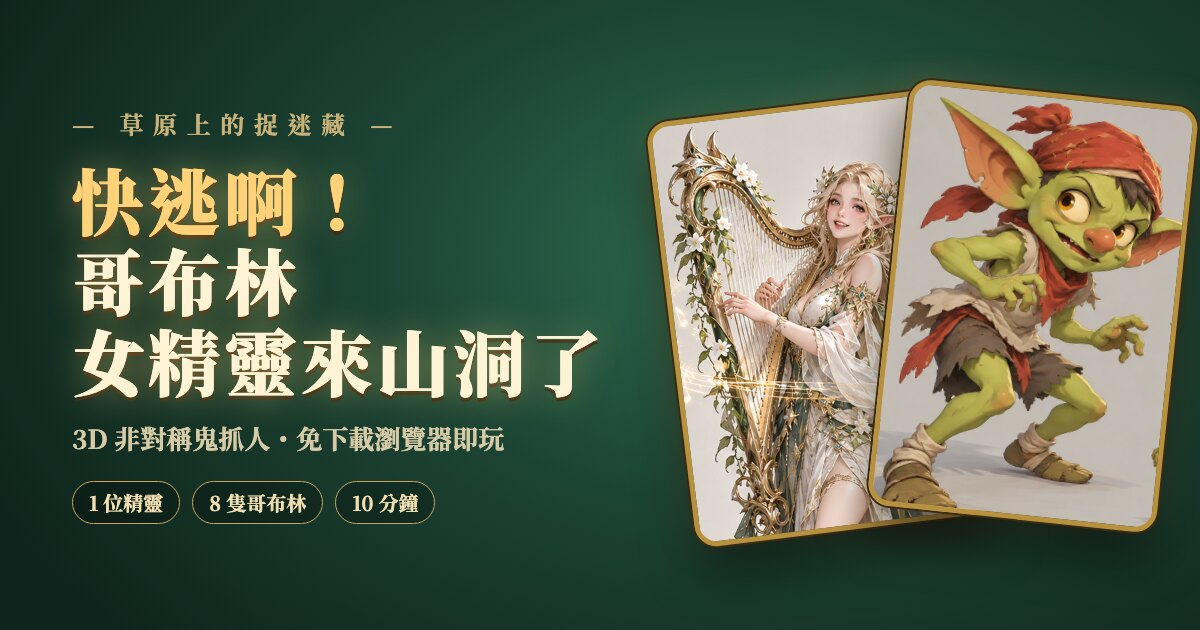
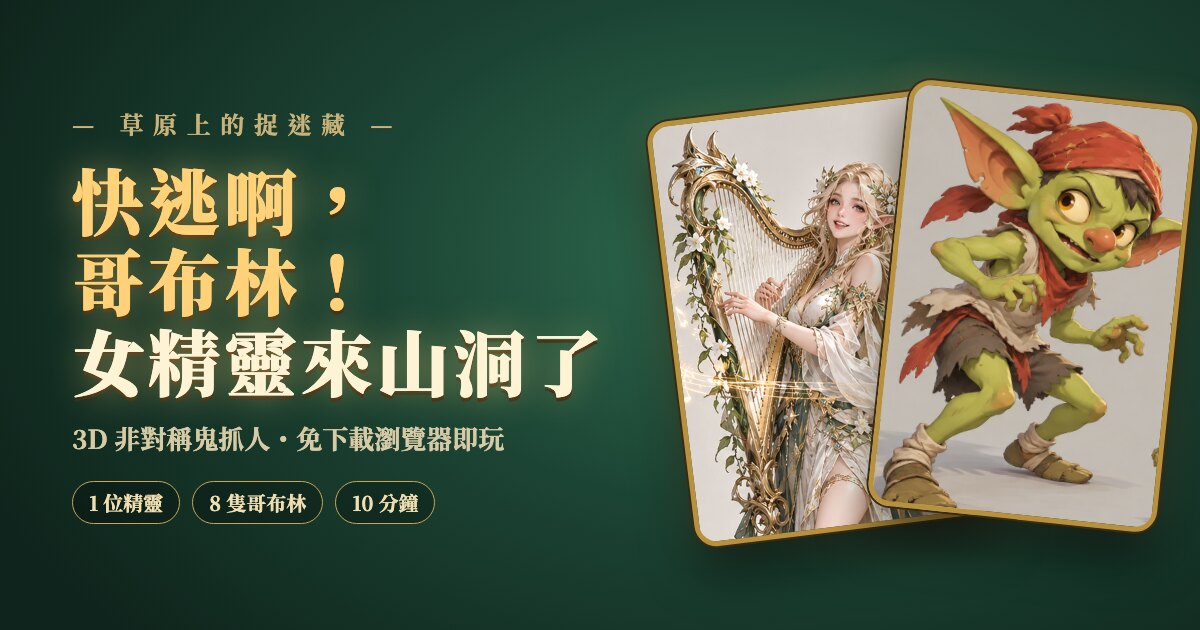
fix(): 修正標題 # 2026-10-21-002
modified:   README.md
	modified:   index.html
	modified:   public/llms.txt
	modified:   public/og-image.jpg
	modified:   src/components/CharacterSelect.vue

Changed region(s): [[0.0617, 0.3921, 0.2467, 0.5127], [0.2775, 0.3921, 0.3083, 0.5127], [0.2775, 0.2714, 0.3083, 0.3619]]

diff --git a/index.html b/index.html
@@ -3,7 +3,7 @@
   <head>
     <meta charset="UTF-8" />
     <meta name="viewport" content="width=device-width, initial-scale=1.0" />
-    <title>快逃啊！哥布林女精靈來山洞了｜免費 3D 瀏覽器鬼抓人遊戲</title>
+    <title>快逃啊，哥布林！女精靈來山洞了｜免費 3D 瀏覽器鬼抓人遊戲</title>
     <meta name="description" content="免下載、免安裝的 3D 非對稱鬼抓人網頁遊戲。扮演手持豎琴的女精靈，在 10 分鐘內抓光 8 隻哥布林；或化身機靈的哥布林，和夥伴躲進山洞、互相救援撐到最後！薩爾達風卡通渲染，打開瀏覽器就能玩。" />
     <meta name="keywords" content="快逃啊哥布林女精靈來山洞了, 精靈與哥布林, 哥布林遊戲, 女精靈, 鬼抓人, 非對稱遊戲, 網頁遊戲, 瀏覽器遊戲, 免費小遊戲, 3D 遊戲, Three.js 遊戲, Elf and Goblins" />
     <meta name="author" content="MichaelHo" />
@@ -17,23 +17,23 @@
 
     <!-- Open Graph：Facebook / LINE / Discord / Threads 等分享預覽 -->
     <meta property="og:type" content="website" />
-    <meta property="og:site_name" content="快逃啊！哥布林女精靈來山洞了" />
+    <meta property="og:site_name" content="快逃啊，哥布林！女精靈來山洞了" />
     <meta property="og:locale" content="zh_TW" />
     <meta property="og:url" content="https://michelo851a1203.github.io/catch-goblin/" />
-    <meta property="og:title" content="快逃啊！哥布林女精靈來山洞了" />
+    <meta property="og:title" content="快逃啊，哥布林！女精靈來山洞了" />
     <meta property="og:description" content="1 位女精靈 vs 8 隻哥布林的 3D 鬼抓人！精靈要在 10 分鐘內抓光哥布林，哥布林要靠團隊合作撐到最後。免下載，瀏覽器直接玩。" />
     <meta property="og:image" content="https://michelo851a1203.github.io/catch-goblin/og-image.jpg" />
     <meta property="og:image:type" content="image/jpeg" />
     <meta property="og:image:width" content="1200" />
     <meta property="og:image:height" content="630" />
-    <meta property="og:image:alt" content="遊戲封面：快逃啊！哥布林女精靈來山洞了，女精靈與哥布林角色卡" />
+    <meta property="og:image:alt" content="遊戲封面：快逃啊，哥布林！女精靈來山洞了，女精靈與哥布林角色卡" />
 
     <!-- Twitter / X -->
     <meta name="twitter:card" content="summary_large_image" />
-    <meta name="twitter:title" content="快逃啊！哥布林女精靈來山洞了" />
+    <meta name="twitter:title" content="快逃啊，哥布林！女精靈來山洞了" />
     <meta name="twitter:description" content="1 位女精靈 vs 8 隻哥布林的 3D 鬼抓人！免下載，瀏覽器直接玩。" />
     <meta name="twitter:image" content="https://michelo851a1203.github.io/catch-goblin/og-image.jpg" />
-    <meta name="twitter:image:alt" content="遊戲封面：快逃啊！哥布林女精靈來山洞了，女精靈與哥布林角色卡" />
+    <meta name="twitter:image:alt" content="遊戲封面：快逃啊，哥布林！女精靈來山洞了，女精靈與哥布林角色卡" />
 
     <!-- 結構化資料：讓搜尋引擎與 AI 助理理解這是什麼遊戲（內容需與下方 #app 內的介紹一致） -->
     <script type="application/ld+json">
@@ -44,14 +44,14 @@
             "@type": "WebSite",
             "@id": "https://michelo851a1203.github.io/catch-goblin/#website",
             "url": "https://michelo851a1203.github.io/catch-goblin/",
-            "name": "快逃啊！哥布林女精靈來山洞了",
+            "name": "快逃啊，哥布林！女精靈來山洞了",
             "alternateName": ["精靈與哥布林", "Elf & Goblins"],
             "inLanguage": "zh-Hant-TW"
           },
           {
             "@type": ["VideoGame", "WebApplication"],
             "@id": "https://michelo851a1203.github.io/catch-goblin/#game",
-            "name": "快逃啊！哥布林女精靈來山洞了",
+            "name": "快逃啊，哥布林！女精靈來山洞了",
             "alternateName": ["精靈與哥布林", "Elf & Goblins"],
             "description": "免費、免安裝的 3D 非對稱鬼抓人瀏覽器遊戲。1 位女精靈要在 10 分鐘內把 8 隻哥布林全部抓進牢籠；哥布林則要躲進山洞、互相救援，只要有一隻撐到時間結束就獲勝。",
             "url": "https://michelo851a1203.github.io/catch-goblin/",
@@ -75,7 +75,7 @@
             "mainEntity": [
               {
                 "@type": "Question",
-                "name": "「快逃啊！哥布林女精靈來山洞了」是什麼遊戲？",
+                "name": "「快逃啊，哥布林！女精靈來山洞了」是什麼遊戲？",
                 "acceptedAnswer": { "@type": "Answer", "text": "一款在瀏覽器上就能玩的 3D 非對稱鬼抓人遊戲。玩家可以選擇扮演 1 位女精靈去抓哥布林，或扮演 8 隻哥布林中的 1 隻（其餘由 AI 控制）想辦法逃過 10 分鐘。" }
               },
               {
@@ -121,7 +121,7 @@
   <body>
     <div id="app">
       <main class="intro">
-        <h1>快逃啊！哥布林女精靈來山洞了</h1>
+        <h1>快逃啊，哥布林！女精靈來山洞了</h1>
         <p class="tagline">免費 3D 非對稱鬼抓人・1 位女精靈 vs 8 隻哥布林・瀏覽器直接玩</p>
         <p class="loading">遊戲載入中…</p>
 

diff --git a/src/components/CharacterSelect.vue b/src/components/CharacterSelect.vue
@@ -79,7 +79,7 @@ function back() {
     <div class="glow"></div>
     <header>
       <p class="eyebrow">— 草原上的捉迷藏 —</p>
-      <h1 data-text="快逃啊！哥布林女精靈來山洞了">快逃啊！哥布林女精靈來山洞了</h1>
+      <h1 data-text="快逃啊，哥布林！女精靈來山洞了">快逃啊，哥布林！女精靈來山洞了</h1>
       <p class="lead">選擇你的陣營</p>
     </header>
 

diff --git a/README.md b/README.md
@@ -1,6 +1,6 @@
 <div align="center">
 
-# 🧝♀ 快逃啊！哥布林女精靈來山洞了 👺
+# 🧝♀ 快逃啊，哥布林！女精靈來山洞了 👺
 
 **Elf & Goblins — 草原上的另類鬼抓人**
 
